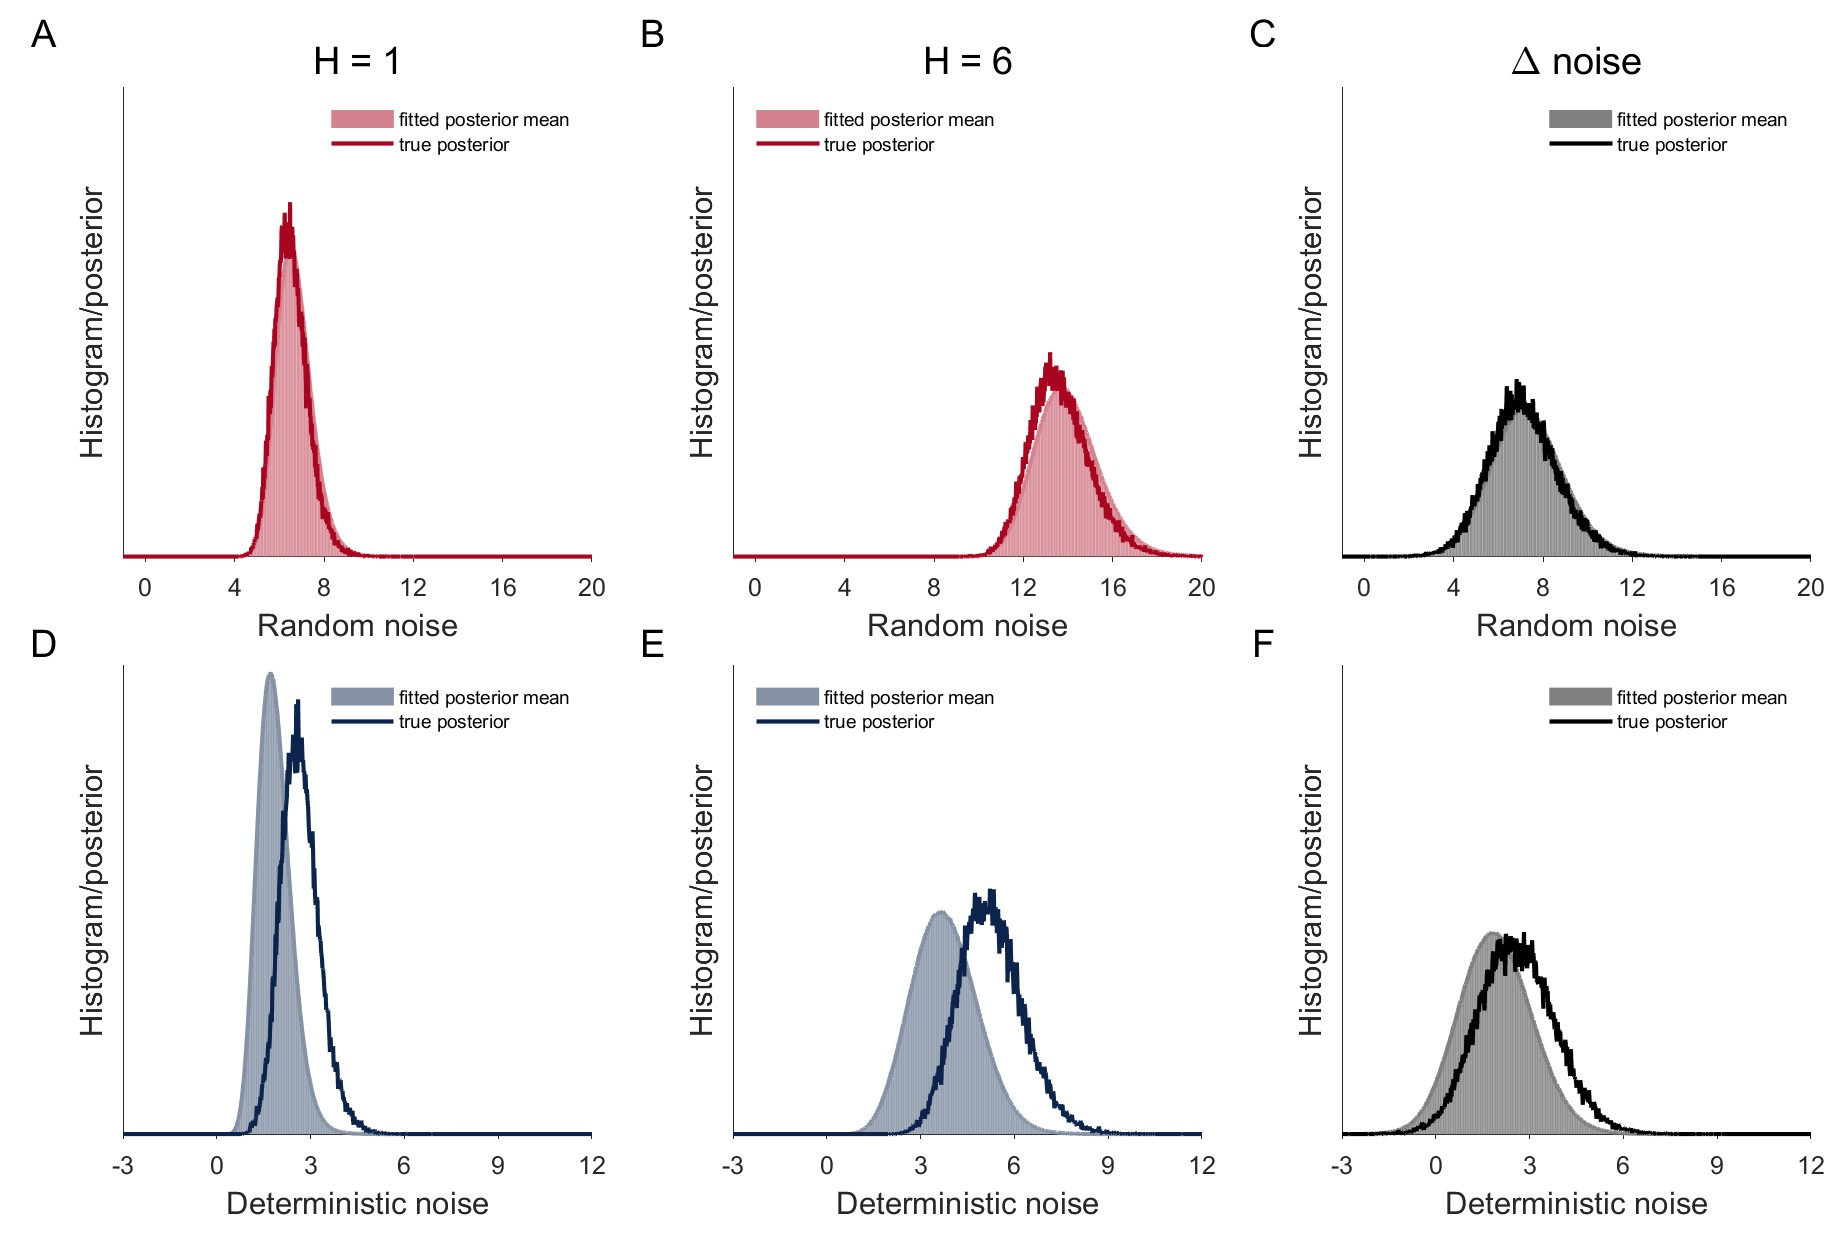
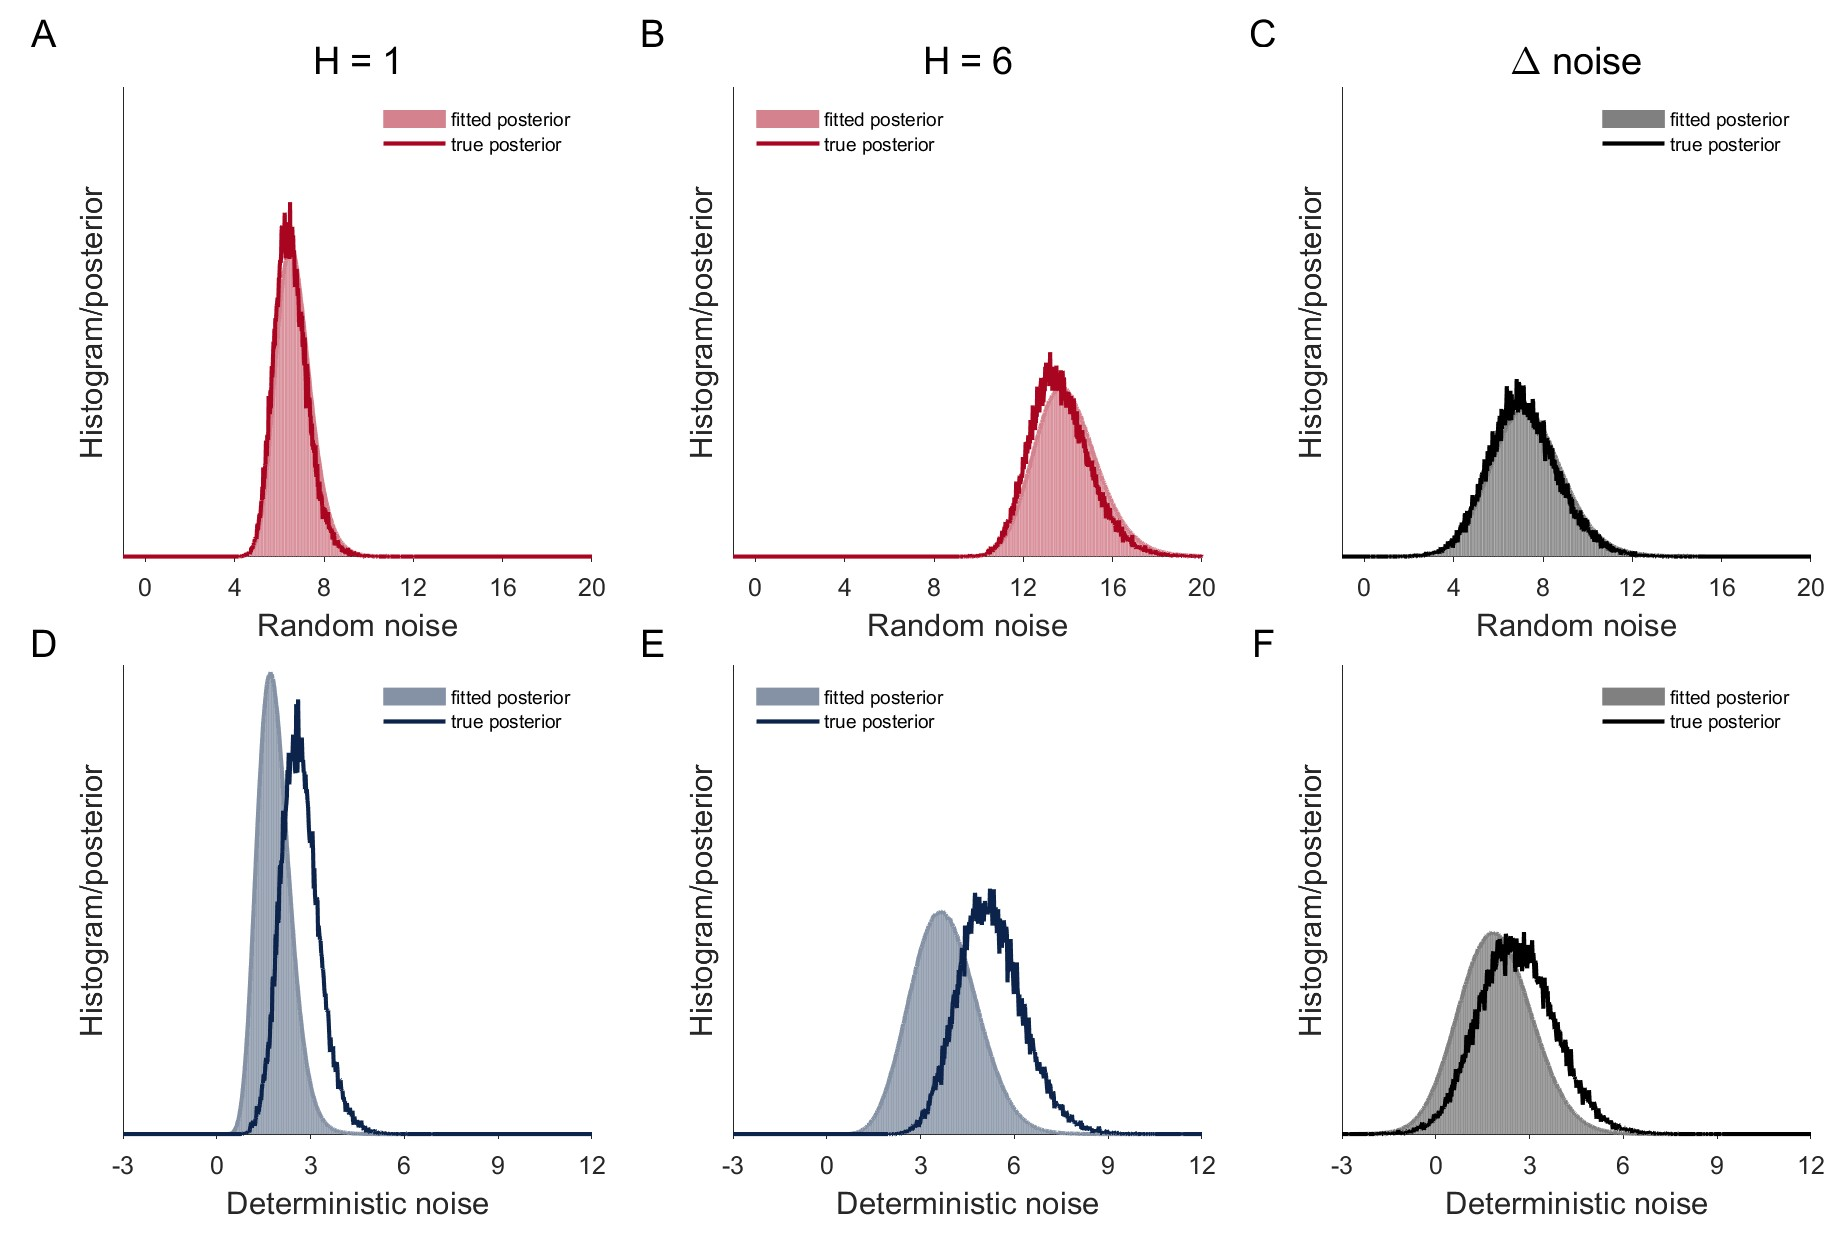
final figures

diff --git a/codes/mainFigures_paramrecover_hyperprior.m b/codes/mainFigures_paramrecover_hyperprior.m
@@ -12,6 +12,8 @@ for repi = 1:200
     recovered = W.struct_cat_bydim(recovered, tsp, 2);
 end
 W.save('./Temp/param_recovery.mat','recovered', recovered);
+%%
+load('./Temp/param_recovery.mat')
 %% hyper prior recovery
 plt = W_plt('savedir', '../figures', 'savepfx', 'RDBayes', 'isshow', true, ...
     'issave', true);
@@ -21,7 +23,7 @@ xbins = -10:0.02:50;
 color = {{'AZred','AZred'},{'AZblue','AZblue'}};
 plt.setfig([1 4 2 5 3 6], 'xtick',{0:4:50,-3:3:15,0:4:50,-3:3:15, 0:4:50,-3:3:15});
 plt.setfig([1 4 2 5 3 6], 'xlim', {[-1 10+10*1],[-3 8+ 1 *4], [-1 10+10*1],[-3 8+ 1 *4], [-1 10+10*1], [-3 8 + 1 *4]});
-plt.setfig_all('ytick', [],'ylim', [0 0.8], 'legend', {'fitted posterior mean', 'true posterior'});
+plt.setfig_all('ytick', [],'ylim', [0 0.8], 'legend', {'fitted posterior', 'true posterior'});
 plt.setfig('legloc',{'NE','NW','NE','NE','NW','NE'})
 plt.setfig([1:3],'xlabel','random noise', 'ylabel', 'histogram/posterior', ...
     'title', {'H = 1', 'H = 6', '\Delta noise'});
@@ -48,6 +50,21 @@ for i = 1:2
     plt.plot(tm, tl,[],'line', 'color', 'black');
 end
 plt.update('parameterrecovery_hyperprior_v2');
+% %% check overall random noise level
+% totn = sp.NoiseDet + sp.NoiseRan;
+% totn2 = recovered.NoiseDet + recovered.NoiseRan;
+% plt.figure(1,2);
+% color = {{'AZred','AZred'},{'AZblue','AZblue'}};
+% xbins = -10:0.02:50;
+% for hi = 1:2
+%     plt.ax(hi);
+%     [tl, tm] = W.JAGS_density(totn2(:,:,hi), xbins);
+%     plt.plot(tm, tl,[],'bar', 'color', strcat(color{i}{h},'50'));
+%     plt.plot(tm, tl,[],'line', 'color', strcat(color{i}{h},'50'), 'addtolegend', false);
+%     [tl,tm] = W.JAGS_density(totn(:,:,hi), xbins);
+%     plt.plot(tm, tl,[],'line', 'color', color{i}{h});
+% end
+% plt.update;
 %%
 
 %     simunum = num2str(i);
